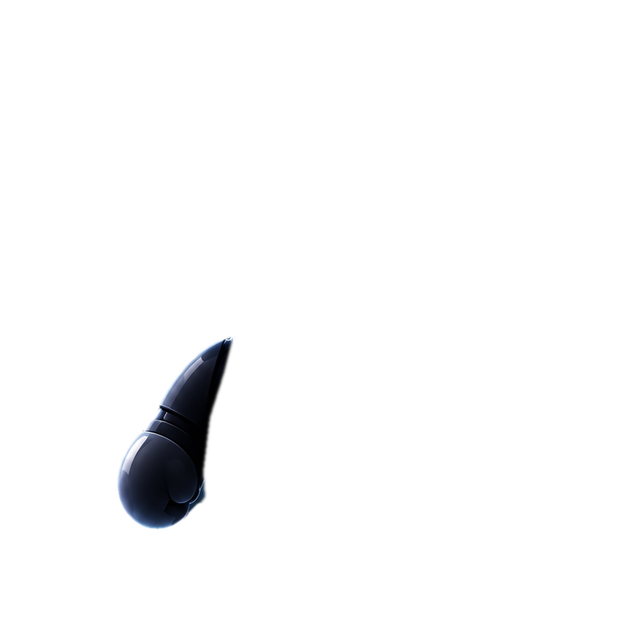
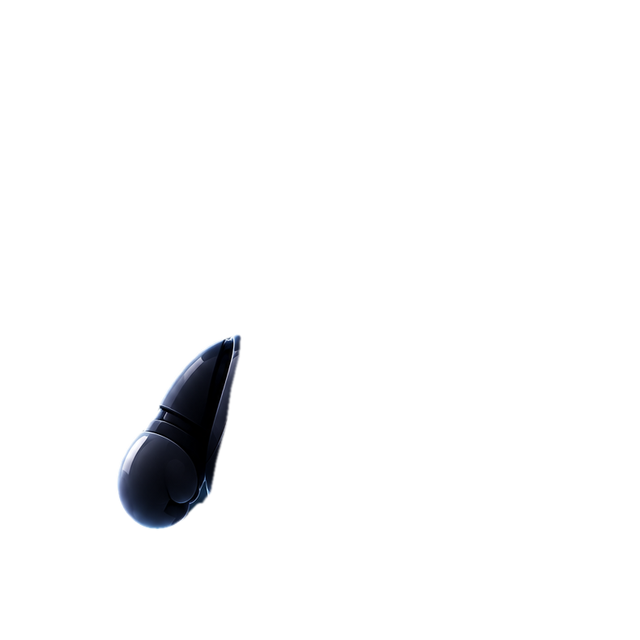
Raising an arm no longer breaks Willo's shape: the torso now ends along its own edge and the arms sit behind it, turning about a point inside it, so an arm comes out whole at any angle and the body stays as it is

Changed region(s): [[0.3125, 0.5312, 0.375, 0.7812]]

diff --git a/mobile/src/components/willo/WilloBot.tsx b/mobile/src/components/willo/WilloBot.tsx
@@ -45,8 +45,10 @@ const EYE_H = 0.119;
 const MOUTH = { x: 0.5025, y: 0.3684 };
 const MOUTH_BOX = 0.24;
 const NECK = { x: 0.5, y: 0.51 };
-const SHOULDER_LEFT = { x: 0.348, y: 0.58 };
-const SHOULDER_RIGHT = { x: 0.652, y: 0.58 };
+/* Inside the torso: the arms go behind it, so they come out from behind at any angle and the
+   torso keeps its shape. */
+const SHOULDER_LEFT = { x: 0.3608, y: 0.6051 };
+const SHOULDER_RIGHT = { x: 0.6392, y: 0.6051 };
 const HIP_LEFT = { x: 0.3987, y: 0.833 };
 const HIP_RIGHT = { x: 0.6013, y: 0.833 };
 /* The head alone: its middle, and how much of the side it takes. */
@@ -336,7 +338,7 @@ export default function WilloBot({
     const on = act.get().sign === mine ? 1 : 0;
     return (
       Math.sin(t * 1.15 + phase) * 2.2 +
-      on * wave.get() * (112 + Math.sin(t * 9) * 12) +
+      on * wave.get() * (92 + Math.sin(t * 9) * 9) +
       on * hand.get() * (46 + Math.sin(t * 3.4) * 7) +
       hop.get() * 26 +
       wow.get() * 16 +
@@ -440,6 +442,8 @@ export default function WilloBot({
 
           {whole && <Animated.Image source={LEG_LEFT} style={[layer, pivot(HIP_LEFT), legLeft]} fadeDuration={0} />}
           {whole && <Animated.Image source={LEG_RIGHT} style={[layer, pivot(HIP_RIGHT), legRight]} fadeDuration={0} />}
+          {whole && <Animated.Image source={ARM_LEFT} style={[layer, pivot(SHOULDER_LEFT), armLeft]} fadeDuration={0} />}
+          {whole && <Animated.Image source={ARM_RIGHT} style={[layer, pivot(SHOULDER_RIGHT), armRight]} fadeDuration={0} />}
           {whole && <Image source={BODY} style={layer} fadeDuration={0} />}
 
           <Animated.View style={[layer, pivot(NECK), headMove]}>
@@ -478,9 +482,6 @@ export default function WilloBot({
             </Animated.View>
           </Animated.View>
 
-          {/* Above the head: a raised hand passes in front of the ear. */}
-          {whole && <Animated.Image source={ARM_LEFT} style={[layer, pivot(SHOULDER_LEFT), armLeft]} fadeDuration={0} />}
-          {whole && <Animated.Image source={ARM_RIGHT} style={[layer, pivot(SHOULDER_RIGHT), armRight]} fadeDuration={0} />}
         </View>
       </View>
     </Animated.View>
